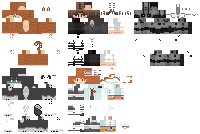
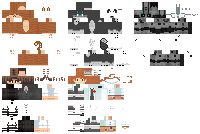
feat: civilian-0 -> human-0

Changed region(s): [[0.33, 0.0, 0.66, 0.5075], [0.0, 0.5075, 0.33, 0.9851]]

diff --git a/TODO.md b/TODO.md
@@ -362,6 +362,10 @@ w decor.byKey.test-decor-point
 
 - ❌ remove internal SVG path editor
 
+- 🚧 clean skins
+  - ✅ civilian-0 -> human-0
+  - 🚧 human-0.svg with extra detail
+
 - larger pause UI
 - larger mobile UI
 
